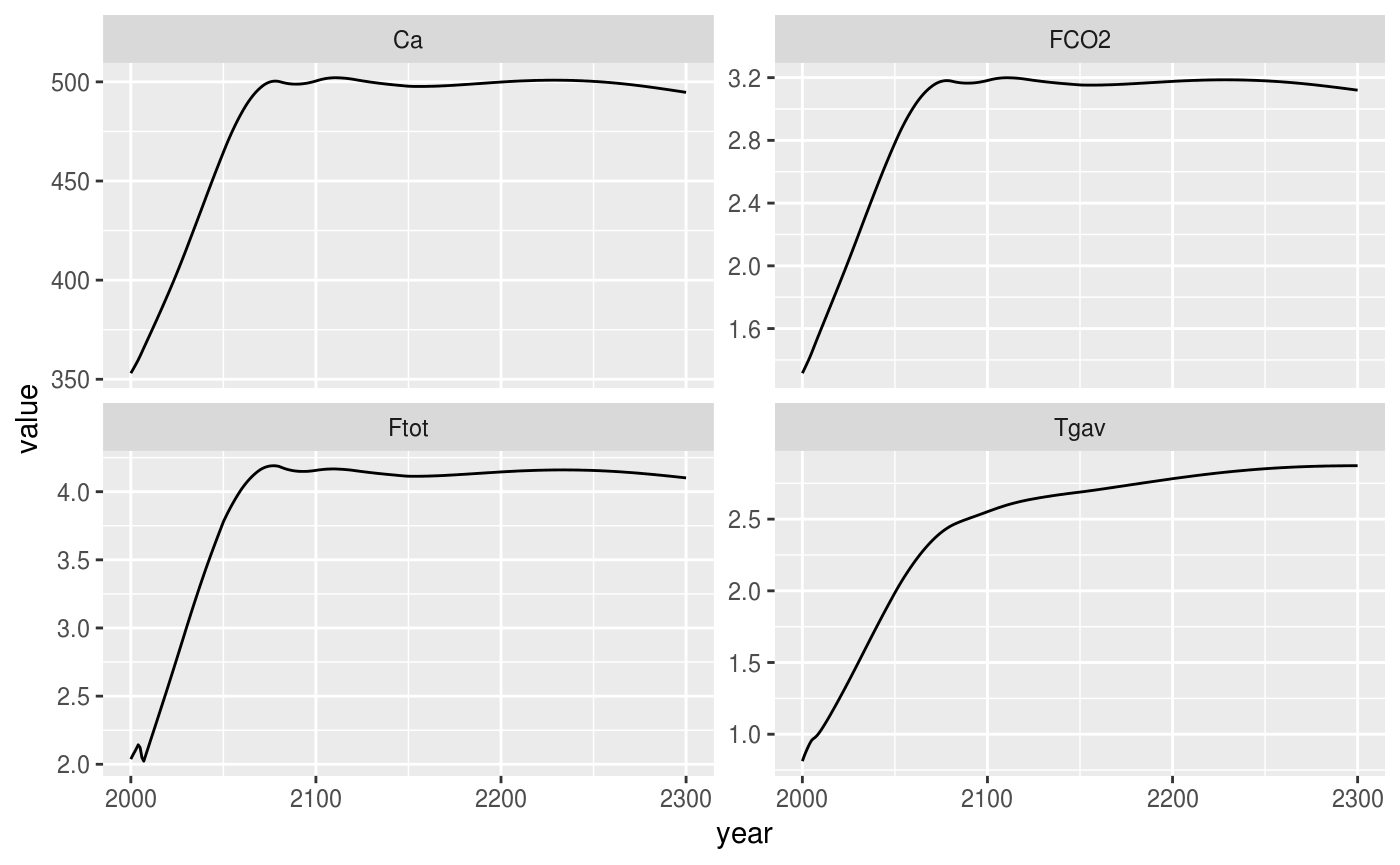
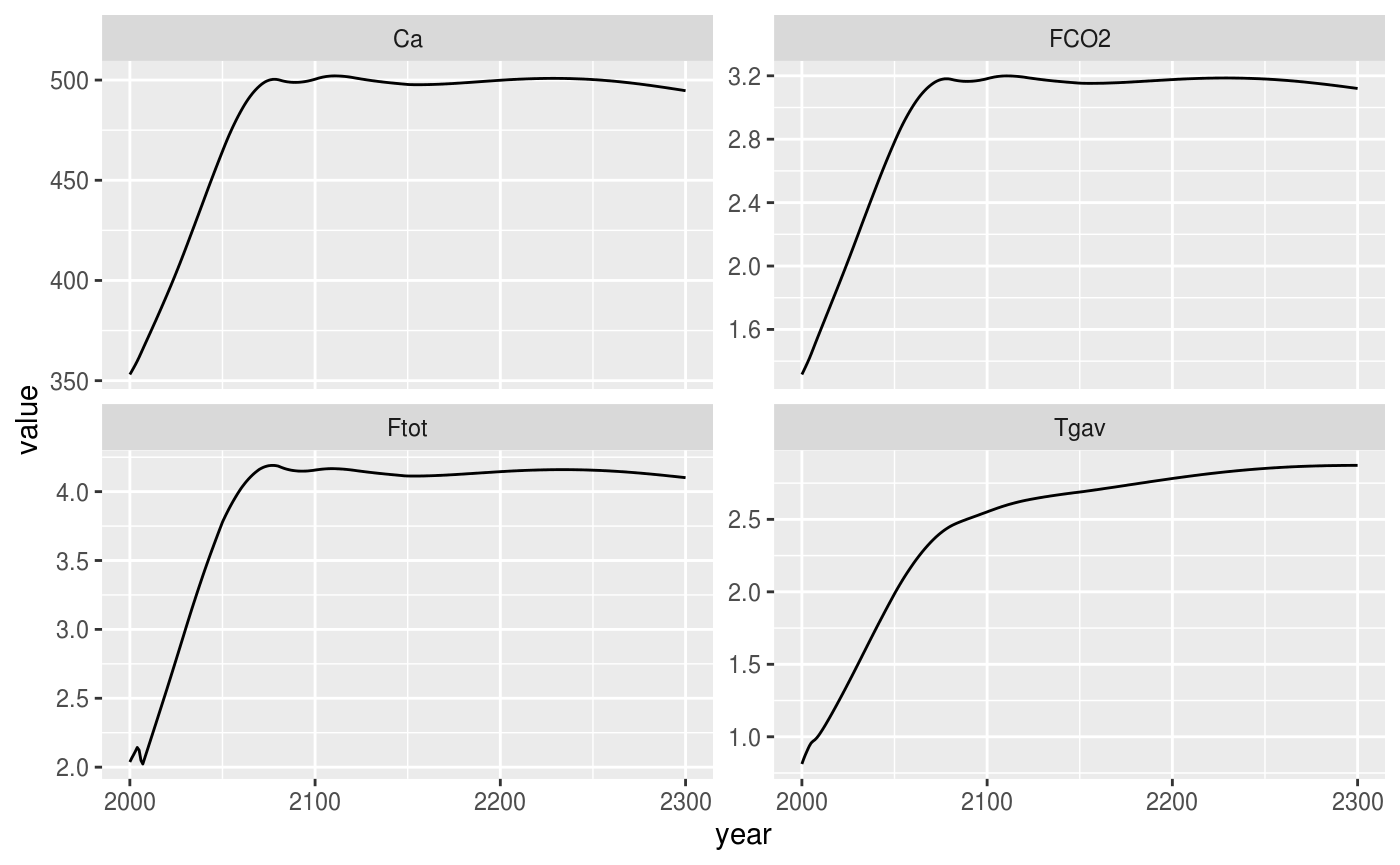
Built site for hector: 2.3.0@81f1c0b

diff --git a/articles/intro-to-hector.html b/articles/intro-to-hector.html
@@ -123,16 +123,12 @@
 ## 5 unnamed hector core 2004       Ca 359.7927 ppmv CO2
 ## 6 unnamed hector core 2005       Ca 361.7058 ppmv CO2</code></pre>
 <p>The results are returned as a long, <a href="https://cran.r-project.org/web/packages/tidyr/vignettes/tidy-data.html">tidy</a> <code>data.frame</code>. This makes it easy to plot them using <code>ggplot2</code>.</p>
-<div class="sourceCode" id="cb9"><pre class="sourceCode r"><code class="sourceCode r"><a class="sourceLine" id="cb9-1" data-line-number="1"><span class="kw"><a href="https://www.rdocumentation.org/packages/base/topics/library">library</a></span>(ggplot2)</a></code></pre></div>
-<pre><code>## Registered S3 methods overwritten by 'ggplot2':
-##   method         from 
-##   [.quosures     rlang
-##   c.quosures     rlang
-##   print.quosures rlang</code></pre>
-<div class="sourceCode" id="cb11"><pre class="sourceCode r"><code class="sourceCode r"><a class="sourceLine" id="cb11-1" data-line-number="1"><span class="kw"><a href="https://www.rdocumentation.org/packages/ggplot2/topics/ggplot">ggplot</a></span>(results) <span class="op">+</span></a>
-<a class="sourceLine" id="cb11-2" data-line-number="2"><span class="st">  </span><span class="kw"><a href="https://www.rdocumentation.org/packages/ggplot2/topics/aes">aes</a></span>(<span class="dt">x =</span> year, <span class="dt">y =</span> value) <span class="op">+</span></a>
-<a class="sourceLine" id="cb11-3" data-line-number="3"><span class="st">  </span><span class="kw"><a href="https://www.rdocumentation.org/packages/ggplot2/topics/geom_path">geom_line</a></span>() <span class="op">+</span></a>
-<a class="sourceLine" id="cb11-4" data-line-number="4"><span class="st">  </span><span class="kw"><a href="https://www.rdocumentation.org/packages/ggplot2/topics/facet_wrap">facet_wrap</a></span>(<span class="op">~</span>variable, <span class="dt">scales =</span> <span class="st">"free_y"</span>)</a></code></pre></div>
+<div class="sourceCode" id="cb9"><pre class="sourceCode r"><code class="sourceCode r"><a class="sourceLine" id="cb9-1" data-line-number="1"><span class="kw"><a href="https://www.rdocumentation.org/packages/base/topics/library">library</a></span>(ggplot2)</a>
+<a class="sourceLine" id="cb9-2" data-line-number="2"></a>
+<a class="sourceLine" id="cb9-3" data-line-number="3"><span class="kw"><a href="https://ggplot2.tidyverse.org/reference/ggplot.html">ggplot</a></span>(results) <span class="op">+</span></a>
+<a class="sourceLine" id="cb9-4" data-line-number="4"><span class="st">  </span><span class="kw"><a href="https://ggplot2.tidyverse.org/reference/aes.html">aes</a></span>(<span class="dt">x =</span> year, <span class="dt">y =</span> value) <span class="op">+</span></a>
+<a class="sourceLine" id="cb9-5" data-line-number="5"><span class="st">  </span><span class="kw"><a href="https://ggplot2.tidyverse.org/reference/geom_path.html">geom_line</a></span>() <span class="op">+</span></a>
+<a class="sourceLine" id="cb9-6" data-line-number="6"><span class="st">  </span><span class="kw"><a href="https://ggplot2.tidyverse.org/reference/facet_wrap.html">facet_wrap</a></span>(<span class="op">~</span>variable, <span class="dt">scales =</span> <span class="st">"free_y"</span>)</a></code></pre></div>
 <p><img src="intro-to-hector_files/figure-html/plot-1.png" width="700"></p>
 </div>
 <div id="setting-parameters" class="section level1">
@@ -140,43 +136,43 @@
 <a href="#setting-parameters" class="anchor"></a>Setting parameters</h1>
 <p>The Hector R interface interacts with parameters and variables in the same way. Therefore, the variables can be set and checked via <code>setvar</code> and <code>fetchvars</code>, respectively.</p>
 <p>First, let’s get the current value of <span class="math inline">\(\beta\)</span> (beta), the CO<span class="math inline">\(_2\)</span> fertilization factor. Because variables and parameter names have to be retrieved from the Hector core, they are stored as R functions (e.g. <code><a href="../reference/parameters.html">BETA()</a></code>). However, these functions simply return a string corresponding to the variable name.</p>
-<div class="sourceCode" id="cb12"><pre class="sourceCode r"><code class="sourceCode r"><a class="sourceLine" id="cb12-1" data-line-number="1"><span class="kw"><a href="../reference/parameters.html">BETA</a></span>()</a></code></pre></div>
+<div class="sourceCode" id="cb10"><pre class="sourceCode r"><code class="sourceCode r"><a class="sourceLine" id="cb10-1" data-line-number="1"><span class="kw"><a href="../reference/parameters.html">BETA</a></span>()</a></code></pre></div>
 <pre><code>## [1] "beta"</code></pre>
 <p>Just as we did to load results, we use <code>fetchvars</code> to query parameter values.</p>
-<div class="sourceCode" id="cb14"><pre class="sourceCode r"><code class="sourceCode r"><a class="sourceLine" id="cb14-1" data-line-number="1">beta &lt;-<span class="st"> </span><span class="kw"><a href="../reference/fetchvars.html">fetchvars</a></span>(core, <span class="ot">NA</span>, <span class="kw"><a href="../reference/parameters.html">BETA</a></span>())</a>
-<a class="sourceLine" id="cb14-2" data-line-number="2">beta </a></code></pre></div>
+<div class="sourceCode" id="cb12"><pre class="sourceCode r"><code class="sourceCode r"><a class="sourceLine" id="cb12-1" data-line-number="1">beta &lt;-<span class="st"> </span><span class="kw"><a href="../reference/fetchvars.html">fetchvars</a></span>(core, <span class="ot">NA</span>, <span class="kw"><a href="../reference/parameters.html">BETA</a></span>())</a>
+<a class="sourceLine" id="cb12-2" data-line-number="2">beta </a></code></pre></div>
 <pre><code>##              scenario year variable value      units
 ## 1 unnamed hector core   NA     beta  0.36 (unitless)</code></pre>
 <p>The result of <code>fetchvars</code> is always a <code>data.frame</code> with the same columns, even when returning a parameter value. Note also the use of <code>NA</code> in the second argument (<code>dates</code>).</p>
 <p>The current value is set to 0.36 (note that it is a unitless quantity, hence the <code>(unitless)</code> unit). Let’s bump it up a little to 0.40.</p>
-<div class="sourceCode" id="cb16"><pre class="sourceCode r"><code class="sourceCode r"><a class="sourceLine" id="cb16-1" data-line-number="1"><span class="kw"><a href="../reference/setvar.html">setvar</a></span>(core, <span class="ot">NA</span>, <span class="kw"><a href="../reference/parameters.html">BETA</a></span>(), <span class="fl">0.40</span>, <span class="st">"(unitless)"</span>) </a></code></pre></div>
+<div class="sourceCode" id="cb14"><pre class="sourceCode r"><code class="sourceCode r"><a class="sourceLine" id="cb14-1" data-line-number="1"><span class="kw"><a href="../reference/setvar.html">setvar</a></span>(core, <span class="ot">NA</span>, <span class="kw"><a href="../reference/parameters.html">BETA</a></span>(), <span class="fl">0.40</span>, <span class="st">"(unitless)"</span>) </a></code></pre></div>
 <p>Similarly to <code>run</code>, this returns no output. Rather, the change is stored inside the Hector “core” object. We can confirm that our change took effect with another call to <code>fetchvars</code>.</p>
-<div class="sourceCode" id="cb17"><pre class="sourceCode r"><code class="sourceCode r"><a class="sourceLine" id="cb17-1" data-line-number="1"><span class="kw"><a href="../reference/fetchvars.html">fetchvars</a></span>(core, <span class="ot">NA</span>, <span class="kw"><a href="../reference/parameters.html">BETA</a></span>()) </a></code></pre></div>
+<div class="sourceCode" id="cb15"><pre class="sourceCode r"><code class="sourceCode r"><a class="sourceLine" id="cb15-1" data-line-number="1"><span class="kw"><a href="../reference/fetchvars.html">fetchvars</a></span>(core, <span class="ot">NA</span>, <span class="kw"><a href="../reference/parameters.html">BETA</a></span>()) </a></code></pre></div>
 <pre><code>##              scenario year variable value      units
 ## 1 unnamed hector core   NA     beta   0.4 (unitless)</code></pre>
 <p>Now, let’s run the simulation again with a higher value for CO2 fertilization. But, before we do, let’s look once again at the Hector <code>core</code> object.</p>
-<div class="sourceCode" id="cb19"><pre class="sourceCode r"><code class="sourceCode r"><a class="sourceLine" id="cb19-1" data-line-number="1">core</a></code></pre></div>
+<div class="sourceCode" id="cb17"><pre class="sourceCode r"><code class="sourceCode r"><a class="sourceLine" id="cb17-1" data-line-number="1">core</a></code></pre></div>
 <pre><code>## Hector core: unnamed hector core
 ## Start date:  1745
 ## End date:    2300
 ## Current date:    2300
 ## Input file:  /home/travis/R/Library/hector/input/hector_rcp45.ini</code></pre>
 <p>Notice that <code>Current date</code> is set to 2300. This is because we have already run this core to its end date. The ability to stop and resume Hector runs with the same configuration, possibly with adjusting values of certain variables while stopped, is an essential part of the model’s functionality. But, it’s not something we’re interested in here. We have already stored the previous run’s output in <code>results</code> above, so we can safely reset the core here.</p>
-<div class="sourceCode" id="cb21"><pre class="sourceCode r"><code class="sourceCode r"><a class="sourceLine" id="cb21-1" data-line-number="1"><span class="kw"><a href="../reference/reset.html">reset</a></span>(core)</a></code></pre></div>
+<div class="sourceCode" id="cb19"><pre class="sourceCode r"><code class="sourceCode r"><a class="sourceLine" id="cb19-1" data-line-number="1"><span class="kw"><a href="../reference/reset.html">reset</a></span>(core)</a></code></pre></div>
 <pre><code>## Hector core: unnamed hector core
 ## Start date:  1745
 ## End date:    2300
 ## Current date:    1745
 ## Input file:  /home/travis/R/Library/hector/input/hector_rcp45.ini</code></pre>
 <p>Now, the “Current Date” has been reset to 1745. We can now perform another run with the new CO<span class="math inline">\(_2\)</span> fertilization value.</p>
-<div class="sourceCode" id="cb23"><pre class="sourceCode r"><code class="sourceCode r"><a class="sourceLine" id="cb23-1" data-line-number="1"><span class="kw"><a href="../reference/run.html">run</a></span>(core)</a></code></pre></div>
+<div class="sourceCode" id="cb21"><pre class="sourceCode r"><code class="sourceCode r"><a class="sourceLine" id="cb21-1" data-line-number="1"><span class="kw"><a href="../reference/run.html">run</a></span>(core)</a></code></pre></div>
 <pre><code>## Hector core: unnamed hector core
 ## Start date:  1745
 ## End date:    2300
 ## Current date:    2300
 ## Input file:  /home/travis/R/Library/hector/input/hector_rcp45.ini</code></pre>
-<div class="sourceCode" id="cb25"><pre class="sourceCode r"><code class="sourceCode r"><a class="sourceLine" id="cb25-1" data-line-number="1">results_<span class="dv">40</span> &lt;-<span class="st"> </span><span class="kw"><a href="../reference/fetchvars.html">fetchvars</a></span>(core, <span class="dv">2000</span><span class="op">:</span><span class="dv">2300</span>)</a>
-<a class="sourceLine" id="cb25-2" data-line-number="2"><span class="kw"><a href="https://www.rdocumentation.org/packages/utils/topics/head">head</a></span>(results_<span class="dv">40</span>) </a></code></pre></div>
+<div class="sourceCode" id="cb23"><pre class="sourceCode r"><code class="sourceCode r"><a class="sourceLine" id="cb23-1" data-line-number="1">results_<span class="dv">40</span> &lt;-<span class="st"> </span><span class="kw"><a href="../reference/fetchvars.html">fetchvars</a></span>(core, <span class="dv">2000</span><span class="op">:</span><span class="dv">2300</span>)</a>
+<a class="sourceLine" id="cb23-2" data-line-number="2"><span class="kw"><a href="https://www.rdocumentation.org/packages/utils/topics/head">head</a></span>(results_<span class="dv">40</span>) </a></code></pre></div>
 <pre><code>##              scenario year variable    value    units
 ## 1 unnamed hector core 2000       Ca 350.6232 ppmv CO2
 ## 2 unnamed hector core 2001       Ca 352.1657 ppmv CO2
@@ -185,15 +181,15 @@
 ## 5 unnamed hector core 2004       Ca 357.1007 ppmv CO2
 ## 6 unnamed hector core 2005       Ca 358.9513 ppmv CO2</code></pre>
 <p>Let’s see how changing the CO2 fertilization affects our results.</p>
-<div class="sourceCode" id="cb27"><pre class="sourceCode r"><code class="sourceCode r"><a class="sourceLine" id="cb27-1" data-line-number="1">results[[<span class="st">"beta"</span>]] &lt;-<span class="st"> </span><span class="fl">0.36</span></a>
-<a class="sourceLine" id="cb27-2" data-line-number="2">results_<span class="dv">40</span>[[<span class="st">"beta"</span>]] &lt;-<span class="st"> </span><span class="fl">0.40</span></a>
-<a class="sourceLine" id="cb27-3" data-line-number="3">compare_results &lt;-<span class="st"> </span><span class="kw"><a href="https://www.rdocumentation.org/packages/base/topics/cbind">rbind</a></span>(results, results_<span class="dv">40</span>)</a>
-<a class="sourceLine" id="cb27-4" data-line-number="4"></a>
-<a class="sourceLine" id="cb27-5" data-line-number="5"><span class="kw"><a href="https://www.rdocumentation.org/packages/ggplot2/topics/ggplot">ggplot</a></span>(compare_results) <span class="op">+</span></a>
-<a class="sourceLine" id="cb27-6" data-line-number="6"><span class="st">  </span><span class="kw"><a href="https://www.rdocumentation.org/packages/ggplot2/topics/aes">aes</a></span>(<span class="dt">x =</span> year, <span class="dt">y =</span> value, <span class="dt">color =</span> <span class="kw"><a href="https://www.rdocumentation.org/packages/base/topics/factor">factor</a></span>(beta)) <span class="op">+</span></a>
-<a class="sourceLine" id="cb27-7" data-line-number="7"><span class="st">  </span><span class="kw"><a href="https://www.rdocumentation.org/packages/ggplot2/topics/geom_path">geom_line</a></span>() <span class="op">+</span></a>
-<a class="sourceLine" id="cb27-8" data-line-number="8"><span class="st">  </span><span class="kw"><a href="https://www.rdocumentation.org/packages/ggplot2/topics/facet_wrap">facet_wrap</a></span>(<span class="op">~</span>variable, <span class="dt">scales =</span> <span class="st">"free_y"</span>) <span class="op">+</span></a>
-<a class="sourceLine" id="cb27-9" data-line-number="9"><span class="st">  </span><span class="kw"><a href="https://www.rdocumentation.org/packages/ggplot2/topics/guides">guides</a></span>(<span class="dt">color =</span> <span class="kw"><a href="https://www.rdocumentation.org/packages/ggplot2/topics/guide_legend">guide_legend</a></span>(<span class="dt">title =</span> <span class="kw"><a href="https://www.rdocumentation.org/packages/base/topics/expression">expression</a></span>(beta)))</a></code></pre></div>
+<div class="sourceCode" id="cb25"><pre class="sourceCode r"><code class="sourceCode r"><a class="sourceLine" id="cb25-1" data-line-number="1">results[[<span class="st">"beta"</span>]] &lt;-<span class="st"> </span><span class="fl">0.36</span></a>
+<a class="sourceLine" id="cb25-2" data-line-number="2">results_<span class="dv">40</span>[[<span class="st">"beta"</span>]] &lt;-<span class="st"> </span><span class="fl">0.40</span></a>
+<a class="sourceLine" id="cb25-3" data-line-number="3">compare_results &lt;-<span class="st"> </span><span class="kw"><a href="https://www.rdocumentation.org/packages/base/topics/cbind">rbind</a></span>(results, results_<span class="dv">40</span>)</a>
+<a class="sourceLine" id="cb25-4" data-line-number="4"></a>
+<a class="sourceLine" id="cb25-5" data-line-number="5"><span class="kw"><a href="https://ggplot2.tidyverse.org/reference/ggplot.html">ggplot</a></span>(compare_results) <span class="op">+</span></a>
+<a class="sourceLine" id="cb25-6" data-line-number="6"><span class="st">  </span><span class="kw"><a href="https://ggplot2.tidyverse.org/reference/aes.html">aes</a></span>(<span class="dt">x =</span> year, <span class="dt">y =</span> value, <span class="dt">color =</span> <span class="kw"><a href="https://www.rdocumentation.org/packages/base/topics/factor">factor</a></span>(beta)) <span class="op">+</span></a>
+<a class="sourceLine" id="cb25-7" data-line-number="7"><span class="st">  </span><span class="kw"><a href="https://ggplot2.tidyverse.org/reference/geom_path.html">geom_line</a></span>() <span class="op">+</span></a>
+<a class="sourceLine" id="cb25-8" data-line-number="8"><span class="st">  </span><span class="kw"><a href="https://ggplot2.tidyverse.org/reference/facet_wrap.html">facet_wrap</a></span>(<span class="op">~</span>variable, <span class="dt">scales =</span> <span class="st">"free_y"</span>) <span class="op">+</span></a>
+<a class="sourceLine" id="cb25-9" data-line-number="9"><span class="st">  </span><span class="kw"><a href="https://ggplot2.tidyverse.org/reference/guides.html">guides</a></span>(<span class="dt">color =</span> <span class="kw"><a href="https://ggplot2.tidyverse.org/reference/guide_legend.html">guide_legend</a></span>(<span class="dt">title =</span> <span class="kw"><a href="https://www.rdocumentation.org/packages/base/topics/expression">expression</a></span>(beta)))</a></code></pre></div>
 <p><img src="intro-to-hector_files/figure-html/compare-co2-fert-1.png" width="700"></p>
 <p>As expected, increasing CO2 fertilization increases the strength of the terrestrial carbon sink and therefore reduces atmospheric CO2, radiative forcing, and global temperature. However, the effects only become pronounced in the latter half of the 21st Century.</p>
 </div>
@@ -202,42 +198,42 @@
 <a href="#sensitivity-analysis" class="anchor"></a>Sensitivity analysis</h1>
 <p>Hector runs fairly quickly, which makes it easy to run lots of simulations under slightly different configurations. One application of this is to explore the sensitivity of Hector to variability in its parameters.</p>
 <p>The basic procedure for this is the same as in the previous section. However, to save typing (and, in general, to be good programmers!), let’s create some functions.</p>
-<div class="sourceCode" id="cb28"><pre class="sourceCode r"><code class="sourceCode r"><a class="sourceLine" id="cb28-1" data-line-number="1"><span class="co">#' Run Hector with a parameter set to a particular value, and return results </span></a>
-<a class="sourceLine" id="cb28-2" data-line-number="2"><span class="co">#'</span></a>
-<a class="sourceLine" id="cb28-3" data-line-number="3"><span class="co">#' @param core Hector core to use for execution</span></a>
-<a class="sourceLine" id="cb28-4" data-line-number="4"><span class="co">#' @param parameter Hector parameter name, as a function call (e.g.</span></a>
-<a class="sourceLine" id="cb28-5" data-line-number="5"><span class="co">#'   `BETA()`)</span></a>
-<a class="sourceLine" id="cb28-6" data-line-number="6"><span class="co">#' @param value Parameter value</span></a>
-<a class="sourceLine" id="cb28-7" data-line-number="7"><span class="co">#' @param dates Sequence of years for running simulation (default = #'</span></a>
-<a class="sourceLine" id="cb28-8" data-line-number="8"><span class="co">#'   `2000:2300`)</span></a>
-<a class="sourceLine" id="cb28-9" data-line-number="9"><span class="co">#' @param ini_file Hector parameter file (default = RCP 4.5 file)</span></a>
-<a class="sourceLine" id="cb28-10" data-line-number="10"><span class="co">#' @return Results, as data.frame, with additional `parameter_value`</span></a>
-<a class="sourceLine" id="cb28-11" data-line-number="11"><span class="co">#'   column</span></a>
-<a class="sourceLine" id="cb28-12" data-line-number="12">run_with_param &lt;-<span class="st"> </span><span class="cf">function</span>(core, parameter, value) {</a>
-<a class="sourceLine" id="cb28-13" data-line-number="13">  old_value &lt;-<span class="st"> </span><span class="kw"><a href="../reference/fetchvars.html">fetchvars</a></span>(core, <span class="ot">NA</span>, parameter)</a>
-<a class="sourceLine" id="cb28-14" data-line-number="14">  unit &lt;-<span class="st"> </span><span class="kw"><a href="https://www.rdocumentation.org/packages/base/topics/character">as.character</a></span>(old_value[[<span class="st">"units"</span>]])</a>
-<a class="sourceLine" id="cb28-15" data-line-number="15">  <span class="kw"><a href="../reference/setvar.html">setvar</a></span>(core, <span class="ot">NA</span>, parameter, value, unit)</a>
-<a class="sourceLine" id="cb28-16" data-line-number="16">  <span class="kw"><a href="../reference/reset.html">reset</a></span>(core)</a>
-<a class="sourceLine" id="cb28-17" data-line-number="17">  <span class="kw"><a href="../reference/run.html">run</a></span>(core)</a>
-<a class="sourceLine" id="cb28-18" data-line-number="18">  result &lt;-<span class="st"> </span><span class="kw"><a href="../reference/fetchvars.html">fetchvars</a></span>(core, <span class="dv">2000</span><span class="op">:</span><span class="dv">2300</span>)</a>
-<a class="sourceLine" id="cb28-19" data-line-number="19">  result[[<span class="st">"parameter_value"</span>]] &lt;-<span class="st"> </span>value</a>
-<a class="sourceLine" id="cb28-20" data-line-number="20">  result</a>
-<a class="sourceLine" id="cb28-21" data-line-number="21">}</a>
-<a class="sourceLine" id="cb28-22" data-line-number="22"></a>
-<a class="sourceLine" id="cb28-23" data-line-number="23"><span class="co">#' Run Hector with a range of parameter values</span></a>
-<a class="sourceLine" id="cb28-24" data-line-number="24">run_with_param_range &lt;-<span class="st"> </span><span class="cf">function</span>(core, parameter, values) {</a>
-<a class="sourceLine" id="cb28-25" data-line-number="25">  mapped &lt;-<span class="st"> </span><span class="kw"><a href="https://www.rdocumentation.org/packages/base/topics/funprog">Map</a></span>(<span class="cf">function</span>(x) <span class="kw">run_with_param</span>(core, parameter, x), values)</a>
-<a class="sourceLine" id="cb28-26" data-line-number="26">  <span class="kw"><a href="https://www.rdocumentation.org/packages/base/topics/funprog">Reduce</a></span>(rbind, mapped)</a>
-<a class="sourceLine" id="cb28-27" data-line-number="27">}</a>
-<a class="sourceLine" id="cb28-28" data-line-number="28"></a>
-<a class="sourceLine" id="cb28-29" data-line-number="29">sensitivity_beta &lt;-<span class="st"> </span><span class="kw">run_with_param_range</span>(core, <span class="kw"><a href="../reference/parameters.html">BETA</a></span>(), <span class="kw"><a href="https://www.rdocumentation.org/packages/base/topics/seq">seq</a></span>(<span class="dv">0</span>, <span class="dv">1</span>, <span class="fl">0.05</span>))</a>
-<a class="sourceLine" id="cb28-30" data-line-number="30"></a>
-<a class="sourceLine" id="cb28-31" data-line-number="31"><span class="kw"><a href="https://www.rdocumentation.org/packages/ggplot2/topics/ggplot">ggplot</a></span>(sensitivity_beta) <span class="op">+</span></a>
-<a class="sourceLine" id="cb28-32" data-line-number="32"><span class="st">  </span><span class="kw"><a href="https://www.rdocumentation.org/packages/ggplot2/topics/aes">aes</a></span>(<span class="dt">x =</span> year, <span class="dt">y =</span> value, <span class="dt">color =</span> parameter_value, <span class="dt">group =</span> parameter_value) <span class="op">+</span></a>
-<a class="sourceLine" id="cb28-33" data-line-number="33"><span class="st">  </span><span class="kw"><a href="https://www.rdocumentation.org/packages/ggplot2/topics/geom_path">geom_line</a></span>() <span class="op">+</span></a>
-<a class="sourceLine" id="cb28-34" data-line-number="34"><span class="st">  </span><span class="kw"><a href="https://www.rdocumentation.org/packages/ggplot2/topics/facet_wrap">facet_wrap</a></span>(<span class="op">~</span>variable, <span class="dt">scales =</span> <span class="st">"free_y"</span>) <span class="op">+</span></a>
-<a class="sourceLine" id="cb28-35" data-line-number="35"><span class="st">  </span><span class="kw"><a href="https://www.rdocumentation.org/packages/ggplot2/topics/guides">guides</a></span>(<span class="dt">color =</span> <span class="kw"><a href="https://www.rdocumentation.org/packages/ggplot2/topics/guide_colourbar">guide_colorbar</a></span>(<span class="dt">title =</span> <span class="kw"><a href="https://www.rdocumentation.org/packages/base/topics/expression">expression</a></span>(beta))) <span class="op">+</span></a>
-<a class="sourceLine" id="cb28-36" data-line-number="36"><span class="st">  </span><span class="kw"><a href="https://www.rdocumentation.org/packages/ggplot2/topics/scale_viridis">scale_color_viridis_c</a></span>() </a></code></pre></div>
+<div class="sourceCode" id="cb26"><pre class="sourceCode r"><code class="sourceCode r"><a class="sourceLine" id="cb26-1" data-line-number="1"><span class="co">#' Run Hector with a parameter set to a particular value, and return results </span></a>
+<a class="sourceLine" id="cb26-2" data-line-number="2"><span class="co">#'</span></a>
+<a class="sourceLine" id="cb26-3" data-line-number="3"><span class="co">#' @param core Hector core to use for execution</span></a>
+<a class="sourceLine" id="cb26-4" data-line-number="4"><span class="co">#' @param parameter Hector parameter name, as a function call (e.g.</span></a>
+<a class="sourceLine" id="cb26-5" data-line-number="5"><span class="co">#'   `BETA()`)</span></a>
+<a class="sourceLine" id="cb26-6" data-line-number="6"><span class="co">#' @param value Parameter value</span></a>
+<a class="sourceLine" id="cb26-7" data-line-number="7"><span class="co">#' @param dates Sequence of years for running simulation (default = #'</span></a>
+<a class="sourceLine" id="cb26-8" data-line-number="8"><span class="co">#'   `2000:2300`)</span></a>
+<a class="sourceLine" id="cb26-9" data-line-number="9"><span class="co">#' @param ini_file Hector parameter file (default = RCP 4.5 file)</span></a>
+<a class="sourceLine" id="cb26-10" data-line-number="10"><span class="co">#' @return Results, as data.frame, with additional `parameter_value`</span></a>
+<a class="sourceLine" id="cb26-11" data-line-number="11"><span class="co">#'   column</span></a>
+<a class="sourceLine" id="cb26-12" data-line-number="12">run_with_param &lt;-<span class="st"> </span><span class="cf">function</span>(core, parameter, value) {</a>
+<a class="sourceLine" id="cb26-13" data-line-number="13">  old_value &lt;-<span class="st"> </span><span class="kw"><a href="../reference/fetchvars.html">fetchvars</a></span>(core, <span class="ot">NA</span>, parameter)</a>
+<a class="sourceLine" id="cb26-14" data-line-number="14">  unit &lt;-<span class="st"> </span><span class="kw"><a href="https://www.rdocumentation.org/packages/base/topics/character">as.character</a></span>(old_value[[<span class="st">"units"</span>]])</a>
+<a class="sourceLine" id="cb26-15" data-line-number="15">  <span class="kw"><a href="../reference/setvar.html">setvar</a></span>(core, <span class="ot">NA</span>, parameter, value, unit)</a>
+<a class="sourceLine" id="cb26-16" data-line-number="16">  <span class="kw"><a href="../reference/reset.html">reset</a></span>(core)</a>
+<a class="sourceLine" id="cb26-17" data-line-number="17">  <span class="kw"><a href="../reference/run.html">run</a></span>(core)</a>
+<a class="sourceLine" id="cb26-18" data-line-number="18">  result &lt;-<span class="st"> </span><span class="kw"><a href="../reference/fetchvars.html">fetchvars</a></span>(core, <span class="dv">2000</span><span class="op">:</span><span class="dv">2300</span>)</a>
+<a class="sourceLine" id="cb26-19" data-line-number="19">  result[[<span class="st">"parameter_value"</span>]] &lt;-<span class="st"> </span>value</a>
+<a class="sourceLine" id="cb26-20" data-line-number="20">  result</a>
+<a class="sourceLine" id="cb26-21" data-line-number="21">}</a>
+<a class="sourceLine" id="cb26-22" data-line-number="22"></a>
+<a class="sourceLine" id="cb26-23" data-line-number="23"><span class="co">#' Run Hector with a range of parameter values</span></a>
+<a class="sourceLine" id="cb26-24" data-line-number="24">run_with_param_range &lt;-<span class="st"> </span><span class="cf">function</span>(core, parameter, values) {</a>
+<a class="sourceLine" id="cb26-25" data-line-number="25">  mapped &lt;-<span class="st"> </span><span class="kw"><a href="https://www.rdocumentation.org/packages/base/topics/funprog">Map</a></span>(<span class="cf">function</span>(x) <span class="kw">run_with_param</span>(core, parameter, x), values)</a>
+<a class="sourceLine" id="cb26-26" data-line-number="26">  <span class="kw"><a href="https://www.rdocumentation.org/packages/base/topics/funprog">Reduce</a></span>(rbind, mapped)</a>
+<a class="sourceLine" id="cb26-27" data-line-number="27">}</a>
+<a class="sourceLine" id="cb26-28" data-line-number="28"></a>
+<a class="sourceLine" id="cb26-29" data-line-number="29">sensitivity_beta &lt;-<span class="st"> </span><span class="kw">run_with_param_range</span>(core, <span class="kw"><a href="../reference/parameters.html">BETA</a></span>(), <span class="kw"><a href="https://www.rdocumentation.org/packages/base/topics/seq">seq</a></span>(<span class="dv">0</span>, <span class="dv">1</span>, <span class="fl">0.05</span>))</a>
+<a class="sourceLine" id="cb26-30" data-line-number="30"></a>
+<a class="sourceLine" id="cb26-31" data-line-number="31"><span class="kw"><a href="https://ggplot2.tidyverse.org/reference/ggplot.html">ggplot</a></span>(sensitivity_beta) <span class="op">+</span></a>
+<a class="sourceLine" id="cb26-32" data-line-number="32"><span class="st">  </span><span class="kw"><a href="https://ggplot2.tidyverse.org/reference/aes.html">aes</a></span>(<span class="dt">x =</span> year, <span class="dt">y =</span> value, <span class="dt">color =</span> parameter_value, <span class="dt">group =</span> parameter_value) <span class="op">+</span></a>
+<a class="sourceLine" id="cb26-33" data-line-number="33"><span class="st">  </span><span class="kw"><a href="https://ggplot2.tidyverse.org/reference/geom_path.html">geom_line</a></span>() <span class="op">+</span></a>
+<a class="sourceLine" id="cb26-34" data-line-number="34"><span class="st">  </span><span class="kw"><a href="https://ggplot2.tidyverse.org/reference/facet_wrap.html">facet_wrap</a></span>(<span class="op">~</span>variable, <span class="dt">scales =</span> <span class="st">"free_y"</span>) <span class="op">+</span></a>
+<a class="sourceLine" id="cb26-35" data-line-number="35"><span class="st">  </span><span class="kw"><a href="https://ggplot2.tidyverse.org/reference/guides.html">guides</a></span>(<span class="dt">color =</span> <span class="kw"><a href="https://ggplot2.tidyverse.org/reference/guide_colourbar.html">guide_colorbar</a></span>(<span class="dt">title =</span> <span class="kw"><a href="https://www.rdocumentation.org/packages/base/topics/expression">expression</a></span>(beta))) <span class="op">+</span></a>
+<a class="sourceLine" id="cb26-36" data-line-number="36"><span class="st">  </span><span class="kw"><a href="https://ggplot2.tidyverse.org/reference/scale_viridis.html">scale_color_viridis_c</a></span>() </a></code></pre></div>
 <p><img src="intro-to-hector_files/figure-html/functions-1.png" width="700"></p>
 <p>As we can see, the ability of CO<span class="math inline">\(_2\)</span> fertilization to offset carbon emissions is saturating – at high values of <span class="math inline">\(\beta\)</span>, the same increase in <span class="math inline">\(\beta\)</span> translates into a smaller decrease in atmospheric CO<span class="math inline">\(_2\)</span> and related climate effects.</p>
 </div>
